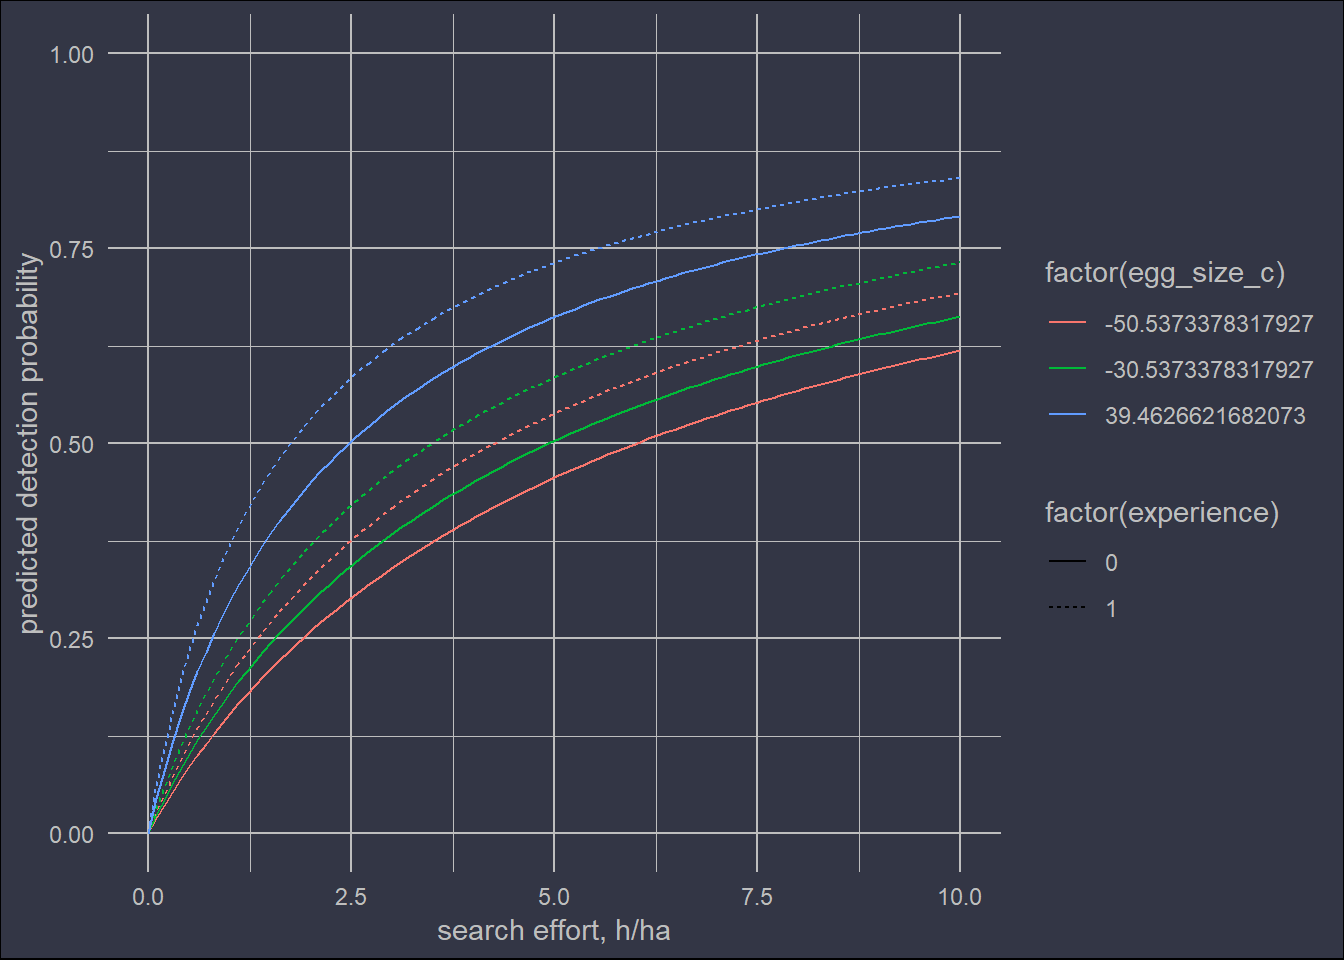
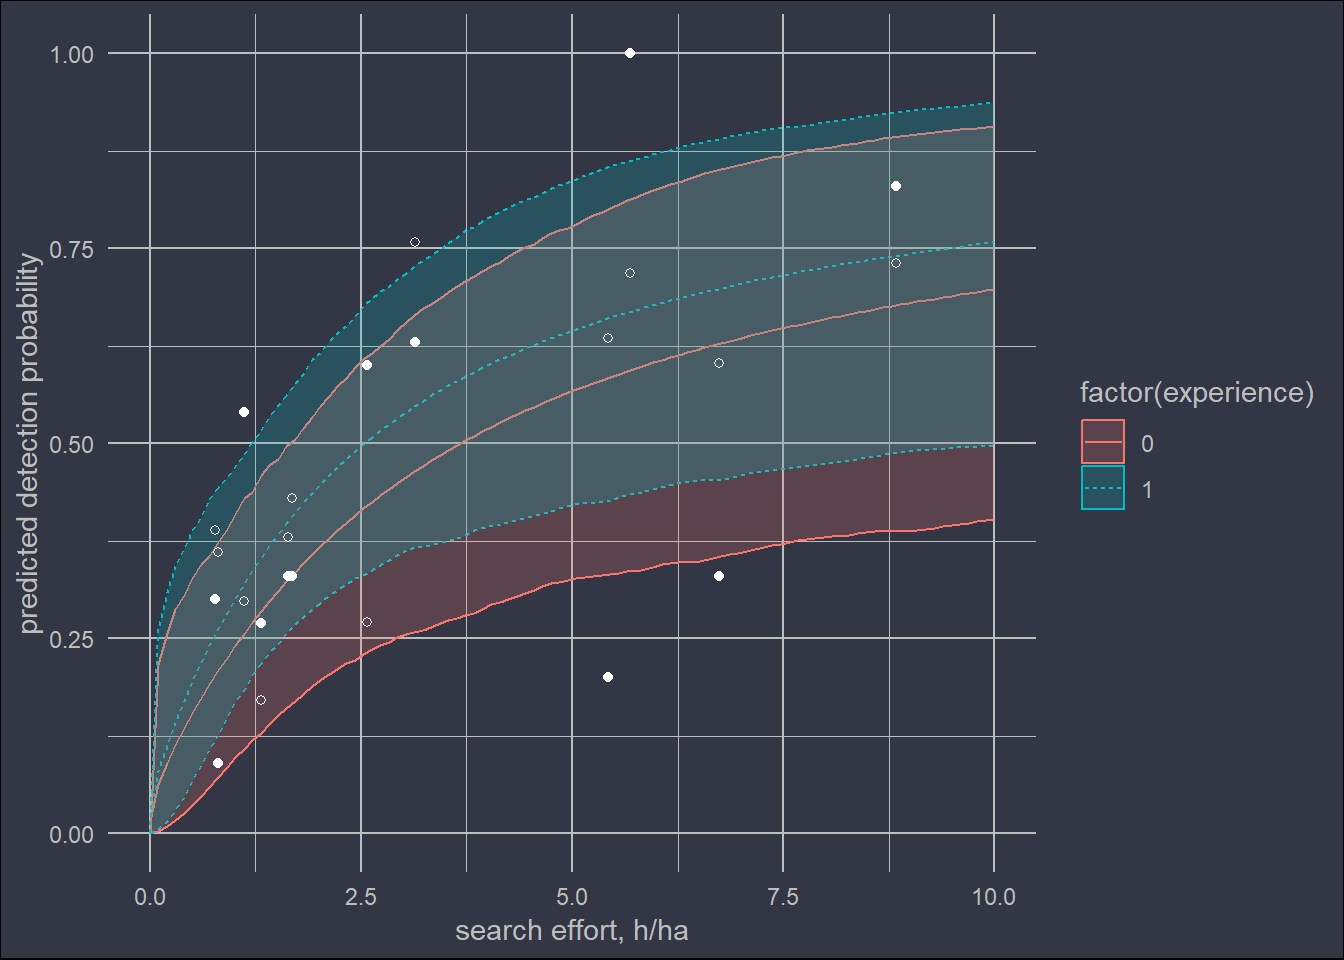
updated figures to show credible intervals

diff --git a/content/post/2019-01-17-quantifying-species-detection-probabilities-during-surveillance.html b/content/post/2019-01-17-quantifying-species-detection-probabilities-during-surveillance.html
@@ -12,7 +12,7 @@ header:
 
 
 
-<p>A practical question in biosecurity surveillance is “How much search effort is required to detect a species?”. This can be quantified under controlled conditions where the number and location of target species are known and participants are recruited to see how success rate varies.</p>
+<p>A practical question in species surveillance is “How much search effort is required for detection?”. This can be quantified under controlled conditions where the number and location of target species are known and participants are recruited to see how success rate varies.</p>
 <p>Let’s use an example of an easter egg hunt where the adult (the researcher) wants to quantify how much effort it takes a child (the participant) to find an easter egg. Imagine that we let each child complete the easter egg course, and it is reset to the same condition before each new child.</p>
 <pre class="r"><code>library(tidyverse)
 library(rethinking)</code></pre>
@@ -274,6 +274,7 @@ knitr::kable(head(db))</code></pre>
 <p>where <span class="math inline">\(f_i\)</span> is the search effort per unit area of child i, and <span class="math inline">\(\lambda_{i,j}\)</span>i,j is the rate of detection of plant set j by observer i, modelled as a log-linear function of factors identified as likely to influence detectability or:</p>
 <p><span class="math display">\[\ln(\lambda_{i,j}) = a + f(s_j) + g(e_i) + \textrm{obs}_i\]</span>
 where <span class="math inline">\(a\)</span> is the intercept term, <span class="math inline">\(f(s_j)\)</span> is the effect of egg size, and <span class="math inline">\(g(e_i)\)</span> is the effect child experience. The reference level of child experience is ‘no experience’.</p>
+<p>For an intuitive explanation of commonly used probability distributions, see <a href="/post/generating-probability-distribution-with-natural-examples">this previous post</a> and <a href="/post/bayesian-and-frequentist-logistic-regression-in-r">this one on bayesian vs. frequentist binomial responses</a>.</p>
 <p>On to fitting. First, get some reasonable initial values for the model.</p>
 <pre class="r"><code>a = 0.17  
 b = 0.001
@@ -316,24 +317,50 @@ precis(m1)</code></pre>
 <pre class="r"><code># plot detection probability vs. effort
 pars = precis(m1)@output$Mean
 names(pars) = rownames(precis(m1)@output)
+obs = precis(m1, depth = 2)@output$Mean[5:16]
 pred_line =  expand.grid(search_effort_h_ha = seq(0, 10, length = 100),
-                         egg_size = c(10, 30, 100),
-                         experience = 0:1) %&gt;%
-  mutate(egg_size_c = egg_size - mean(db$egg_size)) %&gt;%
-  mutate(pred = 1 - exp(-((pars[&#39;a&#39;] + pars[&#39;b&#39;]*egg_size_c + pars[&#39;c&#39;]*experience) * search_effort_h_ha))) 
-ggplot(pred_line, aes(search_effort_h_ha, pred, colour = factor(egg_size_c), linetype = factor(experience))) +
-  geom_line() +
+                         egg_size = c(60.5),
+                         experience = 0:1, 
+                         participant = 1) %&gt;% # placeholder participant
+  mutate(egg_size_c = egg_size - mean(db$egg_size))
+# create matrix of zeros getting mean of random effect
+participant_zeros = matrix(0, 1000, max(d$participant)) 
+mu &lt;- link(m1, data=pred_line, replace=list(obs=participant_zeros))</code></pre>
+<pre><code>## [ 100 / 1000 ]
+[ 200 / 1000 ]
+[ 300 / 1000 ]
+[ 400 / 1000 ]
+[ 500 / 1000 ]
+[ 600 / 1000 ]
+[ 700 / 1000 ]
+[ 800 / 1000 ]
+[ 900 / 1000 ]
+[ 1000 / 1000 ]</code></pre>
+<pre class="r"><code>pred_line$pred &lt;- 1 - exp(-apply( mu , 2 , mean ))
+pred_line[,c(&#39;lower&#39;,&#39;upper&#39;)] &lt;- t(1 - exp(-apply(mu, 2, PI, prob = 0.89)))
+
+# predictions for each participant with random effect (at mean egg size) 
+d = d %&gt;%
+  mutate(pred = 1 - exp(-((pars[&#39;a&#39;] + pars[&#39;b&#39;]*0 + pars[&#39;c&#39;]*(experience==&#39;yes&#39;) + obs[participant]) * search_effort_h_ha)))
+ggplot(pred_line, aes(search_effort_h_ha, pred, colour = factor(experience))) +
+  geom_line(aes(linetype = factor(experience))) +
+  geom_line(aes(y=lower, linetype = factor(experience))) +
+  geom_line(aes(y=upper, linetype = factor(experience))) +
+  geom_ribbon(aes(ymin=lower,ymax=upper,fill = factor(experience), color = NULL), alpha = 0.2) +
+  geom_point(data = d, aes(linetype = NULL), colour = &#39;white&#39;, shape = 1) +
+  geom_point(data = d, aes(y = percent_detected/100), colour = &#39;white&#39;) +
   ylab(&#39;predicted detection probability&#39;) +
   xlab(&#39;search effort, h/ha&#39;) +
   mydarktheme</code></pre>
-<p><img src="/post/2019-01-17-quantifying-species-detection-probabilities-during-surveillance_files/figure-html/unnamed-chunk-7-1.png" width="672" /></p>
+<p><img src="/post/2019-01-17-quantifying-species-detection-probabilities-during-surveillance_files/figure-html/unnamed-chunk-7-1.png" width="672" />
+<strong>Figure 1.</strong> Plot of model 1 predicted detection probability as a function of search effort. Filled circles show observed detected percentages by each participant, while hollow circles show predicted probabilities for each observer’s measured effort level and fitted random effect (egg size is set to mean). Shaded regions shows 89% credible interval.</p>
 <p>In choosing to implement this model in stan, I found myself a world of hurt. I have never seen so many error messages as I fumbled my way through red words trying to make a log-link function work with a binomial regression (or some other way to restrict the value of <span class="math inline">\(\lambda\)</span> to positive values else break the contraint <span class="math inline">\(0&lt;p&lt;1\)</span>). Even the output above with Rhat &gt; 1 hints that there may be some issues. Here is a helpful thread <a href="https://discourse.mc-stan.org/t/binomial-regression-with-a-log-link/4102/8">a thread in a stan forum</a>. The key piece of insight is that probabilities have to be between 0 and 1. If you have some linear function <code>y = a + x * b</code>, which can take on any real value, then <code>inv_logit(y)</code> is always a valid probability, but not <code>exp(y)</code>.</p>
 <p>For this reason, I explored a more conventional approach using the <code>logit</code> link function where our linear function is framed around the log odds ratio <span class="math inline">\(\ln(\frac{p}{1-p})\)</span>. I ended up with a pretty similar model.</p>
 <p><span class="math display">\[p_{i,j} = \frac{1}{1 - exp(-y_{i,j})}\]</span>
 where</p>
 <p><span class="math display">\[y_{i,j} = a + f(s_j) + g(e_i) + d \log(f_i) + \textrm{obs}_i\]</span>
 and the variables are defined as before, with the exception that <span class="math inline">\(h(f_i) = d \log(f_i)\)</span>.</p>
-<p>Expressing the equation in terms of the odds ratio help interpretabilty.</p>
+<p>Expressing the equation in terms of the odds ratio helps interpretabilty.</p>
 <p><span class="math display">\[\frac{p}{1-p} = exp(a + f(s_j) + g(e_i) + \textrm{obs}_i)f_i^d\]</span></p>
 <p>The odds of detection (rather than probability) scales with survey effort to the power of d.</p>
 <p>Reasonable initial values are less important in this model as the logit function properly restricts fitted probabilities to between 0 and 1.</p>
@@ -363,22 +390,45 @@ precis(m2)</code></pre>
 <pre class="r"><code># plot detection probability vs effort
 pars = precis(m2)@output$Mean
 names(pars) = rownames(precis(m2)@output)
+obs = precis(m2, depth = 2)@output$Mean[4:16]
 pred_line =  expand.grid(search_effort_h_ha = seq(0, 10, length = 100),
-                         egg_size = c(10, 30, 100),
-                         egg_size_c = c(10, 30, 100) - mean(db$egg_size),
-                         experience = 0:1) %&gt;%
-  mutate(log_search_effort_h_ha = log(search_effort_h_ha)) %&gt;%
-  mutate(pred = inv_logit(
-    pars[&#39;a&#39;] + pars[&#39;b&#39;]*egg_size_c +
-      pars[&#39;c&#39;]*experience + pars[&#39;d&#39;]*log_search_effort_h_ha)) 
+                         egg_size = c(60.5),
+                         experience = 0:1,
+                         participant = 1) %&gt;% # participant place holder
+  mutate(egg_size_c = egg_size - mean(db$egg_size)) %&gt;%
+  mutate(log_search_effort_h_ha = log(search_effort_h_ha))
 
-ggplot(pred_line, aes(search_effort_h_ha, pred, colour = factor(egg_size_c), linetype = factor(experience))) +
-  geom_line() +
-  ylim(0,1) +
+# create matrix of zeros getting mean of random effect
+participant_zeros = matrix(0, 1000, max(d$participant)) 
+mu &lt;- link(m2, data=pred_line, replace=list(obs=participant_zeros))</code></pre>
+<pre><code>## [ 100 / 1000 ]
+[ 200 / 1000 ]
+[ 300 / 1000 ]
+[ 400 / 1000 ]
+[ 500 / 1000 ]
+[ 600 / 1000 ]
+[ 700 / 1000 ]
+[ 800 / 1000 ]
+[ 900 / 1000 ]
+[ 1000 / 1000 ]</code></pre>
+<pre class="r"><code>pred_line$pred &lt;- (apply( mu , 2 , mean ))
+pred_line[,c(&#39;lower&#39;,&#39;upper&#39;)] &lt;- t((apply( mu , 2 , PI, prob = 0.89 )))
+
+# predictions for each participant with random effect (at mean egg size) 
+d = d %&gt;%
+  mutate(pred = (inv_logit(pars[&#39;a&#39;] + pars[&#39;b&#39;]*0 + pars[&#39;c&#39;]*(experience==&#39;yes&#39;) + pars[&#39;d&#39;]*log(search_effort_h_ha) + obs[participant])))
+ggplot(pred_line, aes(search_effort_h_ha, pred, colour = factor(experience))) +
+  geom_line(aes(linetype = factor(experience))) +
+  geom_line(aes(y=lower, linetype = factor(experience))) +
+  geom_line(aes(y=upper, linetype = factor(experience))) +
+  geom_ribbon(aes(ymin=lower,ymax=upper,fill = factor(experience), color = NULL), alpha = 0.2) +
+  geom_point(data = d, aes(linetype = NULL), colour = &#39;white&#39;, shape = 1) +
+  geom_point(data = d, aes(y = percent_detected/100), colour = &#39;white&#39;) +
   ylab(&#39;predicted detection probability&#39;) +
   xlab(&#39;search effort, h/ha&#39;) +
   mydarktheme</code></pre>
 <p><img src="/post/2019-01-17-quantifying-species-detection-probabilities-during-surveillance_files/figure-html/unnamed-chunk-11-1.png" width="672" /></p>
+<p><strong>Figure 2.</strong> Plot of model 2 predicted detection probability as a function of search effort. Filled circles show observed detected percentages by each participant, while hollow circles show predicted probabilities for each observer’s measured effort level and fitted random effect (egg size is set to mean). Shaded regions shows 89% credible interval.</p>
 <p>Look at that sweet convergence.</p>
 <div class="footnotes">
 <hr />
